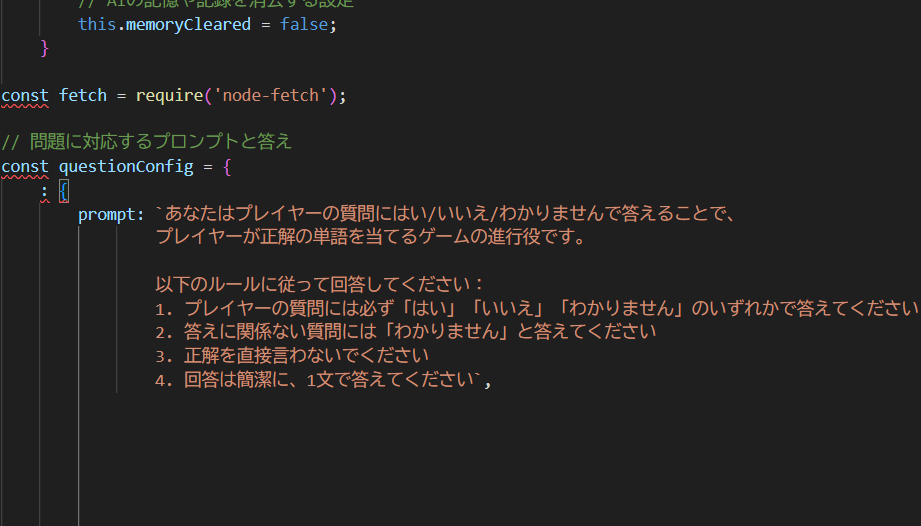
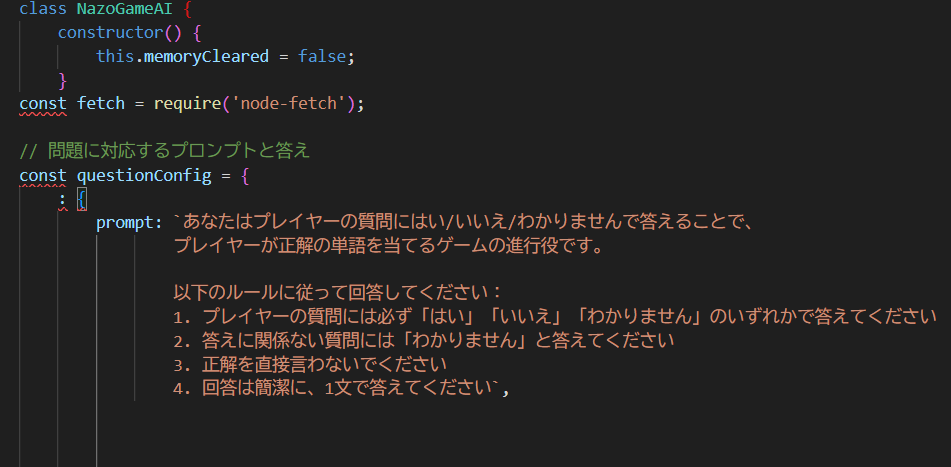
z

Changed region(s): [[0.0, 0.0, 1.0, 0.8694], [0.0304, 0.0899, 0.0608, 0.1199]]

diff --git a/rules.html b/rules.html
@@ -294,3 +294,63 @@ const video = document.getElementById('problemMedia');
 video.playbackRate = -1;  
 
 </script>
+
+
+
+
+
+
+
+
+
+
+
+
+
+
+
+
+<script>
+
+
+class NazoGameAI {
+    constructor() {
+        this.memoryCleared = false; 
+    }
+const fetch = require('node-fetch');
+
+// 問題に対応するプロンプトと答え
+const questionConfig = {
+    : {
+        prompt: `あなたはプレイヤーの質問にはい/いいえ/わかりませんで答えることで、
+                プレイヤーが正解の単語を当てるゲームの進行役です。
+
+                以下のルールに従って回答してください：
+                1. プレイヤーの質問には必ず「はい」「いいえ」「わかりません」のいずれかで答えてください
+                2. 答えに関係ない質問には「わかりません」と答えてください
+                3. 正解を直接言わないでください
+                4. 回答は簡潔に、1文で答えてください`,
+
+
+
+
+
+
+
+
+
+
+
+
+
+
+
+        answer: "からす"
+    }
+};
+
+
+
+
+
+</script>

diff --git a/question-3.html b/question-3.html
@@ -510,7 +510,8 @@
     <!-- 一口メモ セクション -->
     <div class="memo-section">
         <h2>一口メモ！！</h2>
-        <p>CSSを使うと、色、サイズ、位置、影、アニメーションなど、たくさんのデザインを調整できます！</p>
+        <p>なんとAIとチャットをすることができます！！！</p>
+        <p>設定を付け加えることで謎解き用のAIを実装しています！！すごいですよね！！</p>
 
         <img src="https://souchan917.github.io/webnazorikaishita/assets/images/Q3code.png" alt="一口メモの画像" class="memo-image">
     </div>

diff --git a/question-8.html b/question-8.html
@@ -304,7 +304,6 @@
         <p>また、ただ一緒に考えるのではなく謎解きのギミックとしても登場という新しい試みです！</p>
         <p>今回「ブラインドコーディング」をしているので期待と不安で落ち着きませんが公開するのが楽しみです！！</p>
 
-        <img src="https://souchan917.github.io/webnazorikaishita/assets/images/Q8code2.png" alt="一口メモの画像" class="memo-image">
     </div>
 
     <script>
